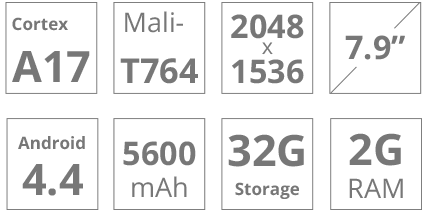
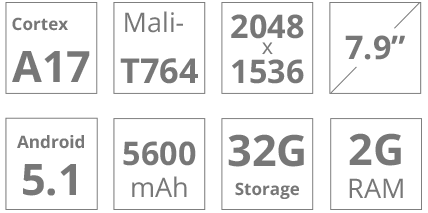
update price

Changed region(s): [[0.0, 0.5352, 0.243, 0.9859]]

diff --git a/recpad402.html b/recpad402.html
@@ -104,13 +104,13 @@
 				
 				<div class="row">
 					<div class="col-md-4">
-						<p class="text-center visible-md visible-lg" style="margin-top:65px;"><strike class="txt--primary_on_light txt--bold">MSRP $179</strike></p>
+						<p class="text-center visible-md visible-lg" style="margin-top:65px;"><strike class="txt--primary_on_light txt--bold">MSRP $199</strike></p>
 						<p class="txt--primary_on_light txt--lg txt--heading visible-xs visible-sm ">RecPad 402</p>
 					</div>
 					<div class="col-md-8">
-						<a class="contact btn btn--highlight" style="margin-top:60px;" href="#contact"><p class=" ">Preorder for $199 </p></a>
+						<a class="contact btn btn--highlight" style="margin-top:60px;" href="#contact"><p class=" ">Preorder for $179 </p></a>
 						<p>
-						<p class="text-center visible-xs visible-sm"><strike class="txt--primary_on_light txt--bold">MSRP $179</strike></p>
+						<p class="text-center visible-xs visible-sm"><strike class="txt--primary_on_light txt--bold">MSRP $199</strike></p>
 					</div>
 				</div>
 				
@@ -203,7 +203,7 @@
 						<p class="txt--lg txt--primary_on_light">OS</p>
 					</div>
 					<div class="col-md-7">
-						<p class="txt--lg">Android 4.4</p>
+						<p class="txt--lg">Android 5.1</p>
 					</div>
 				</div>
 

diff --git a/index.html b/index.html
@@ -105,13 +105,13 @@
 				
 				<div class="row">
 					<div class="col-md-4">
-						<p class="text-center visible-md visible-lg" style="margin-top:65px;"><strike class="txt--primary_on_light txt--bold">MSRP $229</strike></p>
+						<p class="text-center visible-md visible-lg" style="margin-top:65px;"><strike class="txt--primary_on_light txt--bold">MSRP $259</strike></p>
 						<p class="txt--primary_on_light txt--lg txt--heading visible-xs visible-sm ">RecPad 405</p>
 					</div>
 					<div class="col-md-8">
-						<a class="contact btn btn--highlight" style="margin-top:60px;" href="#contact"><p class=" ">Preorder for $259 </p></a>
+						<a class="contact btn btn--highlight" style="margin-top:60px;" href="#contact"><p class=" ">Preorder for $229 </p></a>
 						<p>
-						<p class="text-center visible-xs visible-sm"><strike class="txt--primary_on_light txt--bold">MSRP $229</strike></p>
+						<p class="text-center visible-xs visible-sm"><strike class="txt--primary_on_light txt--bold">MSRP $259</strike></p>
 					</div>
 				</div>
 				
